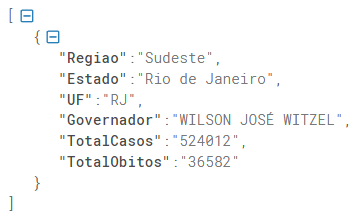
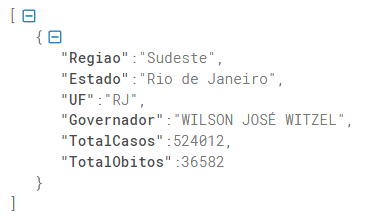
ajustes finais

diff --git a/beams/estados/beam_estados.py b/beams/estados/beam_estados.py
@@ -1,6 +1,5 @@
 # -*- coding: utf-8 -*-
 import apache_beam as beam
-import util
 
 estados = beam.Pipeline()
 
@@ -12,24 +11,41 @@ class filtro_estados_csv(beam.DoFn):
     yield f'{record[0]};{record[1]};{record[2]};{record[3]}'
       
 class parse_region(beam.DoFn):
-  """
-    Retorna os registros com suas respectivas regiões inseridas
-  """
+  # extraído de https://www.infoescola.com/geografia/regioes-e-estados-brasileiros/
+  regions = {
+      "Norte": "Amazonas, Roraima, Amapá, Pará, Tocantins, Rondônia, Acre",
+      "Nordeste": "Maranhão, Piauí, Ceará, Rio Grande do Norte, Pernambuco, Paraíba, Sergipe, Alagoas, Bahia",
+      "Centro-Oeste": "Mato Grosso, Mato Grosso do Sul, Goiás, Distrito Federal",
+      "Sudeste": "São Paulo, Rio de Janeiro, Espírito Santo, Minas Gerais",
+      "Sul": "Paraná, Rio Grande do Sul, Santa Catarina"
+  }
+
   def process(self, record):
+    """
+      Retorna os registros com suas respectivas regiões inseridas
+    """
     estado = record[0]
-    for key, value in util.regions.items():
+    for key, value in self.regions.items():
       if estado in value:
         record.insert(0, key)
         yield record
 
 class parse_uf(beam.DoFn):
+  ufs = {
+      "AC": "Acre", "AL": "Alagoas", "AP": "Amapá", "AM": "Amazonas", "BA": "Bahia", "CE": "Ceará",
+      "DF": "Distrito Federal", "ES": "Espírito Santo", "GO": "Goiás", "MA": "Maranhão", "MT": "Mato Grosso",
+      "MS": "Mato Grosso do Sul", "MG": "Minas Gerais", "PA": "Pará", "PB": "Paraíba", "PR": "Paraná",
+      "PE": "Pernambuco", "PI": "Piauí", "RJ": "Rio de Janeiro", "RN": "Rio Grande do Norte",
+      "RS": "Rio Grande do Sul", "RO": "Rondônia", "RR": "Roraima", "SC": "Santa Catarina",
+      "SP": "São Paulo", "SE": "Sergipe", "TO": "Tocantins"
+    }
 
   def process(self, record):
     """
       Retorna os registros com suas respectivas UFs inseridas
     """
     estado = record[1]
-    for key, value in util.ufs.items():
+    for key, value in self.ufs.items():
       if estado == value:
         record.insert(0, key)
         yield record # reagrupa o resultado como lista e retorna

diff --git a/beams/to_json.py b/beams/to_json.py
@@ -21,8 +21,8 @@ class parse_json(beam.DoFn):
         estado = record[1]
         uf = record[2]
         governador = record[3]
-        total_casos = record[4]
-        total_obitos = record[5]
+        total_casos = int(record[4])
+        total_obitos = int(record[5])
         yield [{
             "Regiao": regiao,
             "Estado": estado,
